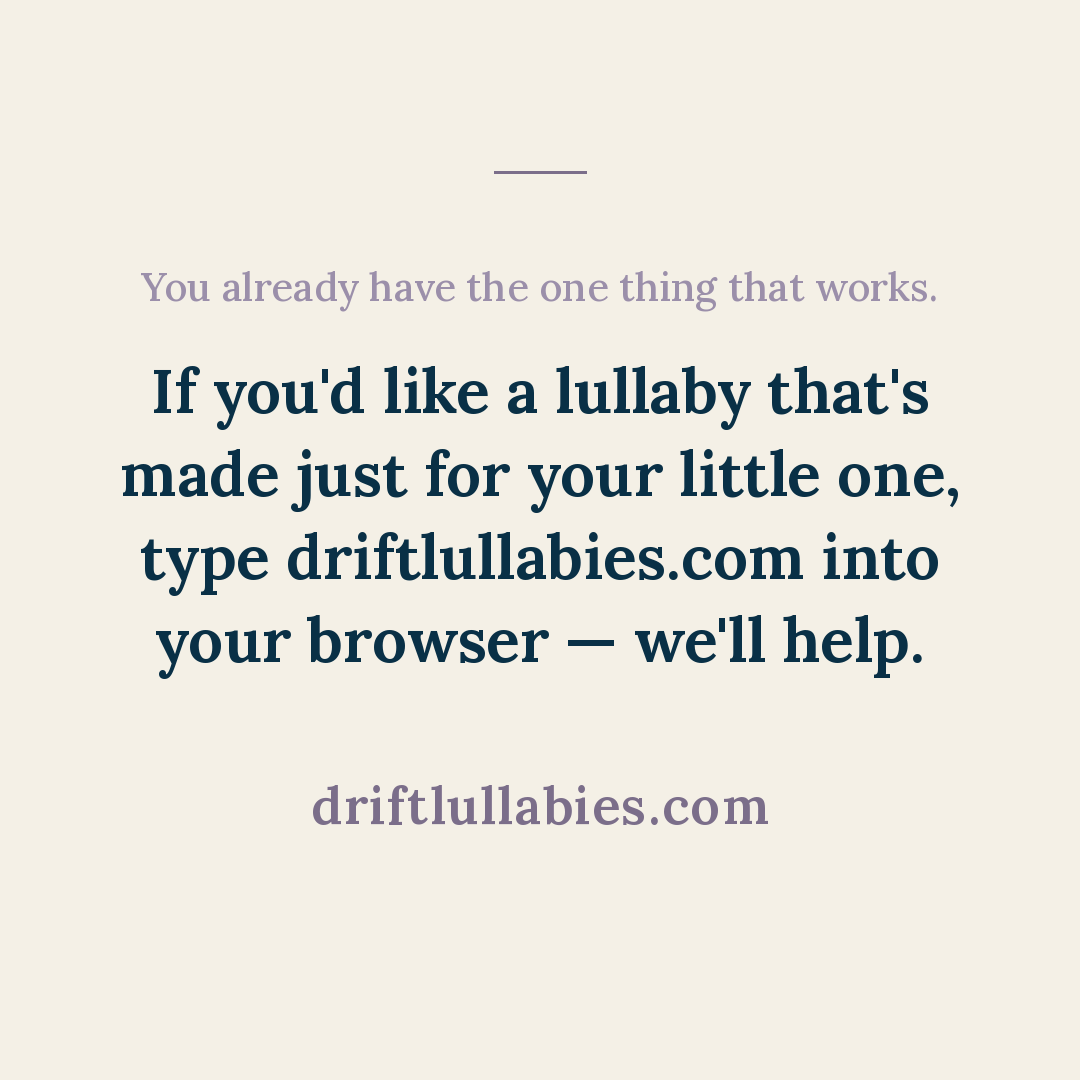
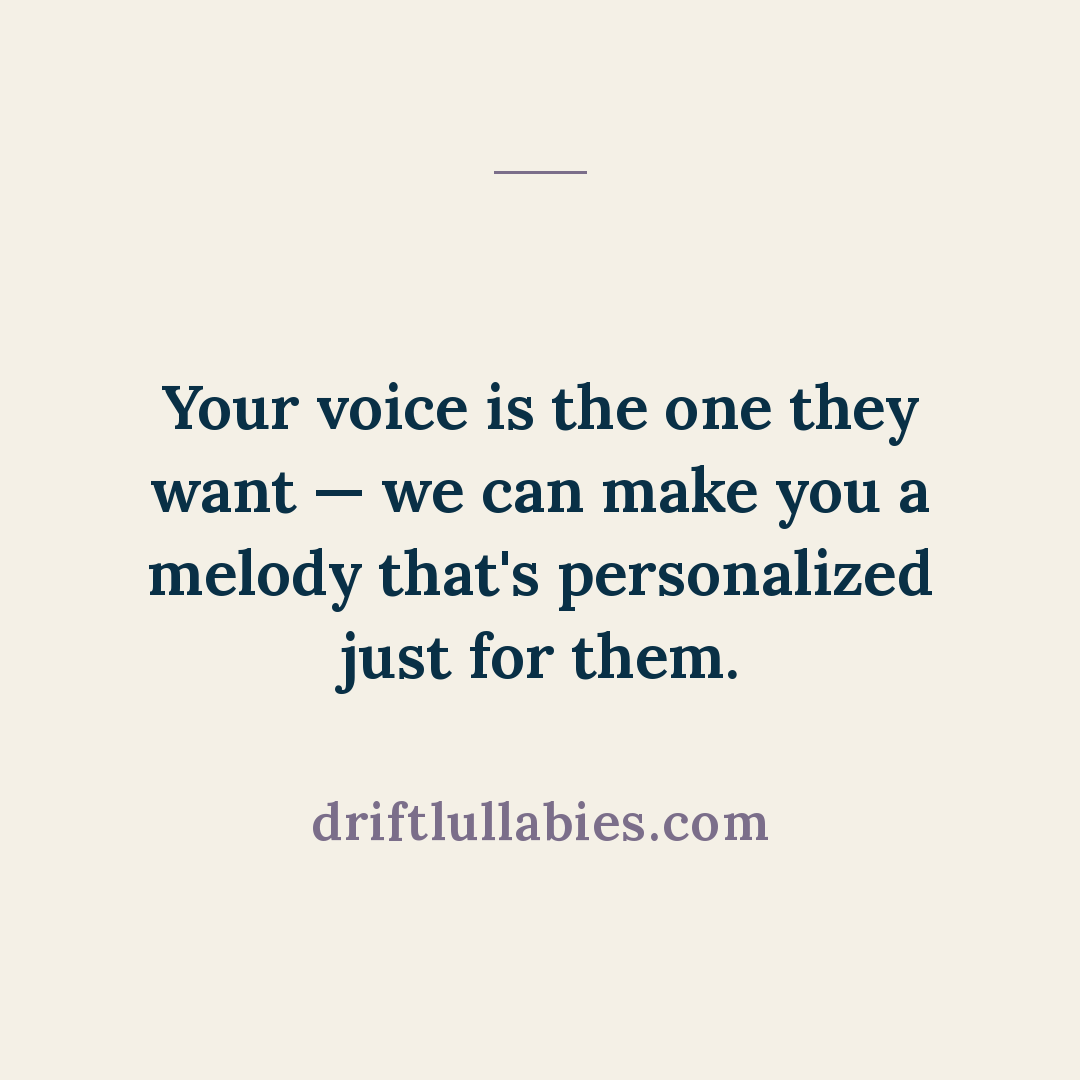
Add 16-your-voice-beats-any-recording (16 - Your Voice Beats Any Recording)

Changed region(s): [[0.0917, 0.3361, 0.8861, 0.6417], [0.275, 0.7333, 0.7333, 0.7944], [0.1222, 0.2444, 0.8556, 0.3056]]

diff --git a/posts/16-your-voice-beats-any-recording/slides.md b/posts/16-your-voice-beats-any-recording/slides.md
@@ -15,7 +15,8 @@ Why your voice beats any recording at bedtime:
 05  Any lullaby works when it's yours
 
 ## Closer (website)
-Eyebrow: You already have the one thing that works.
+No eyebrow.
+Main: Your voice is the one they want — we can make you a melody that's personalized just for them.
 URL: driftlullabies.com
 
 Rendered slide-1..slide-7 (weight 650, cream). Hook #26. No universal/cross-cultural absolutes.
